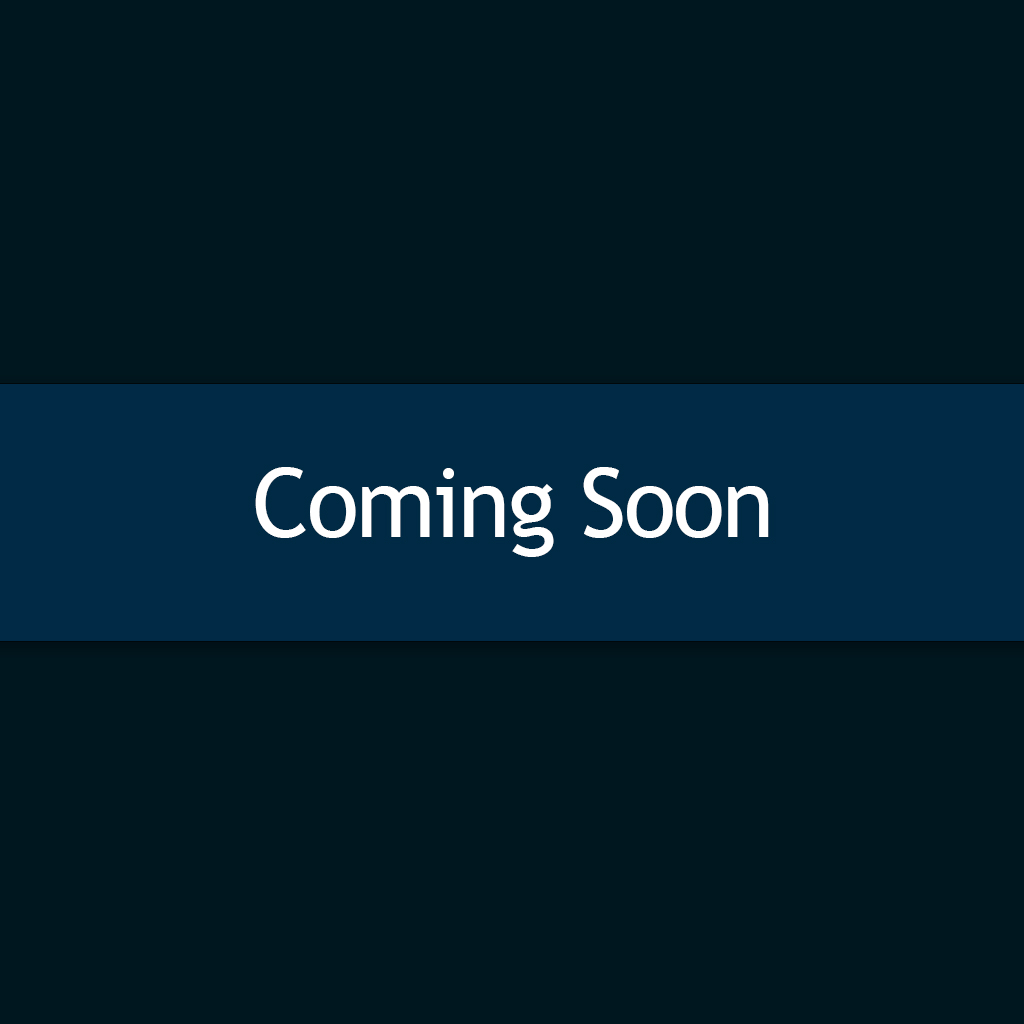
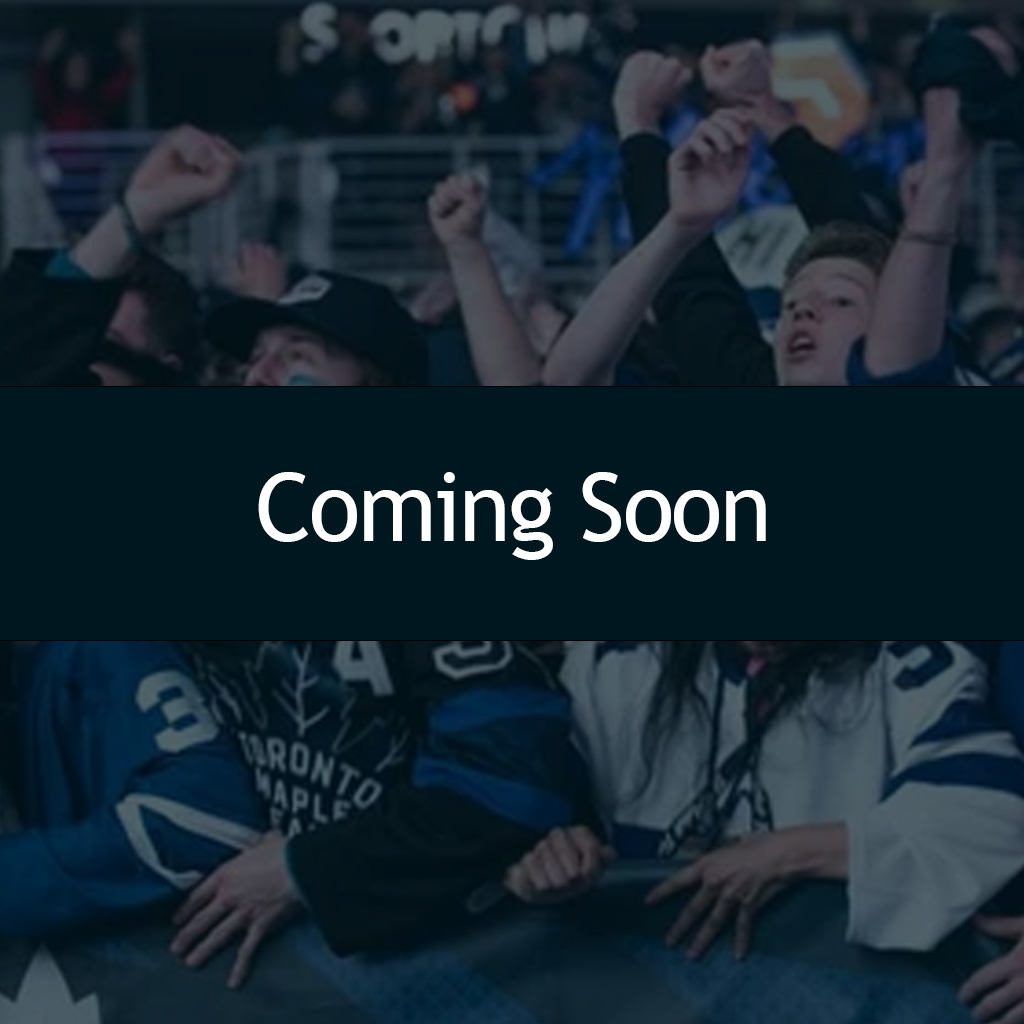
Sports page updated with images

diff --git a/Trident/templates/template.html b/Trident/templates/template.html
@@ -52,7 +52,7 @@
                 <li>Football</li>
                 <li>Ice Hockey</li>
                 <li>Rugby</li>
-                <li>Motorsport</li>
+                <li>Coming Soon</li>
               </ul>
           </div>
           <div class="col">
